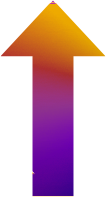
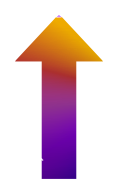
added arrows

Changed region(s): [[0.0, 0.0, 0.9906, 1.0]]

diff --git a/app/templates/index.html b/app/templates/index.html
@@ -87,7 +87,9 @@
             <a class="end btn btn-warning btn-lg-3 fw-bold my-5 text-white" href="{{ url_for('auth.signup') }}" button
                 type="button">
                 <strong>I WANT TO BECOME</strong><br><strong>AN INVESTONAUT!</strong></a>
+            <img src="../static/images/orangearrow.png">
         </div>
+
         <div class="col-lg-5">
             <img src="../static/images/woman.png">
         </div>
@@ -96,17 +98,21 @@
     <div class="container">
         <footer class="">
             <ul class="nav justify-content-center mt-5">
-                <li class="nav-item" id="ftext"><a href="{{ url_for('home') }}" class="nav-link px-2 text-danger">Home </a>
+                <li class="nav-item" id="ftext"><a href="{{ url_for('home') }}" class="nav-link px-2 text-danger">Home
+                    </a>
                 </li>
-                <li class="nav-item" id="ftext"><a href="{{ url_for('dashboard') }}" class="nav-link px-2 text-danger"> Rocket
-                        Dashboard</a>
+                <li class="nav-item" id="ftext"><a href="{{ url_for('dashboard') }}"
+                        class="nav-link px-2 text-danger">Rocket Dashboard</a>
                 </li>
-                <li class="nav-item" id="ftext"><a href="{{ url_for('api.apidata') }}" class="nav-link px-2 text-danger">Api</a>
+                <li class="nav-item" id="ftext"><a href="{{ url_for('api.apidata') }}"
+                        class="nav-link px-2 text-danger">Api</a>
                 </li>
-                <li class="nav-item" id="ftext"><a href="{{ url_for('auth.signup') }}" class="nav-link px-2 text-danger">Sign
+                <li class="nav-item" id="ftext"><a href="{{ url_for('auth.signup') }}"
+                        class="nav-link px-2 text-danger">Sign
                         Up</a>
                 </li>
-                <li class="nav-item" id="ftext"><a href="{{ url_for('auth.login') }}" class="nav-link px-2 text-danger">Login</a>
+                <li class="nav-item" id="ftext"><a href="{{ url_for('auth.login') }}"
+                        class="nav-link px-2 text-danger">Login</a>
                 </li>
                 <li class="nav-item" id="ftext"><a href="{{ url_for('auth.logout') }}"
                         class="nav-link px-2 text-danger">Logout</a>

diff --git a/app/static/css/style.css b/app/static/css/style.css
@@ -3,12 +3,12 @@ body{
 }
 
 .yes.btn{
-    font-size:20px;
+    font-size:25px;
     background-color: purple;
     border-width: 5px;
 }
 .end.btn{
-    font-size:20px;
+    font-size:25px;
     background-color: rgb(223, 104, 0);
     border-width: 5px;
     color:purple;
